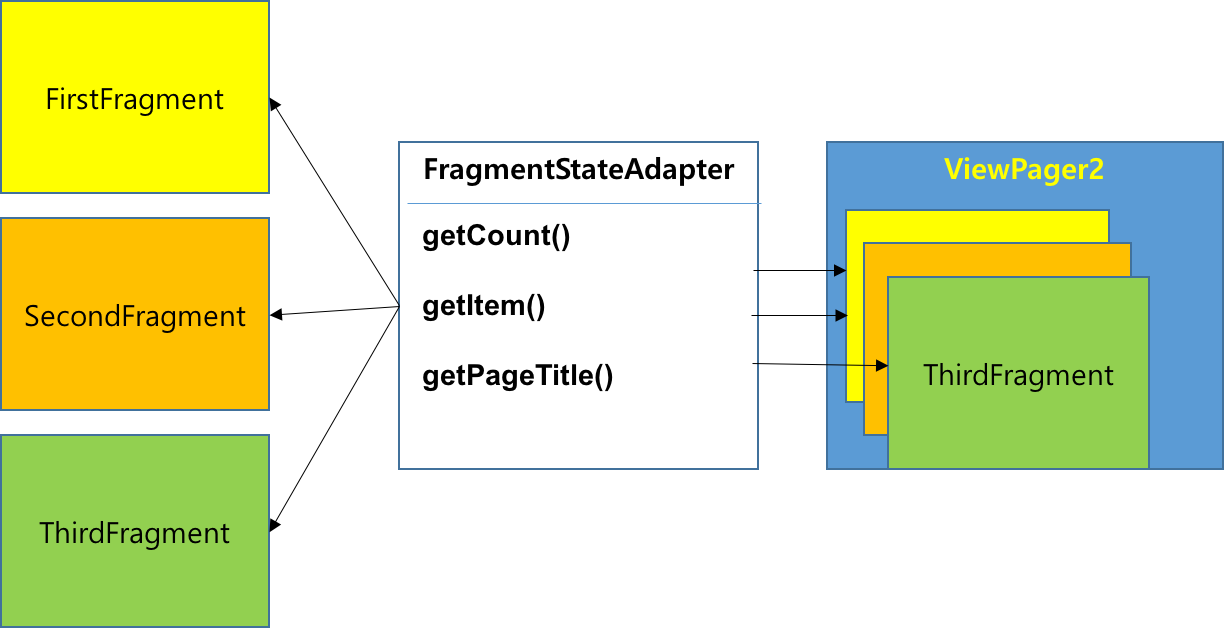
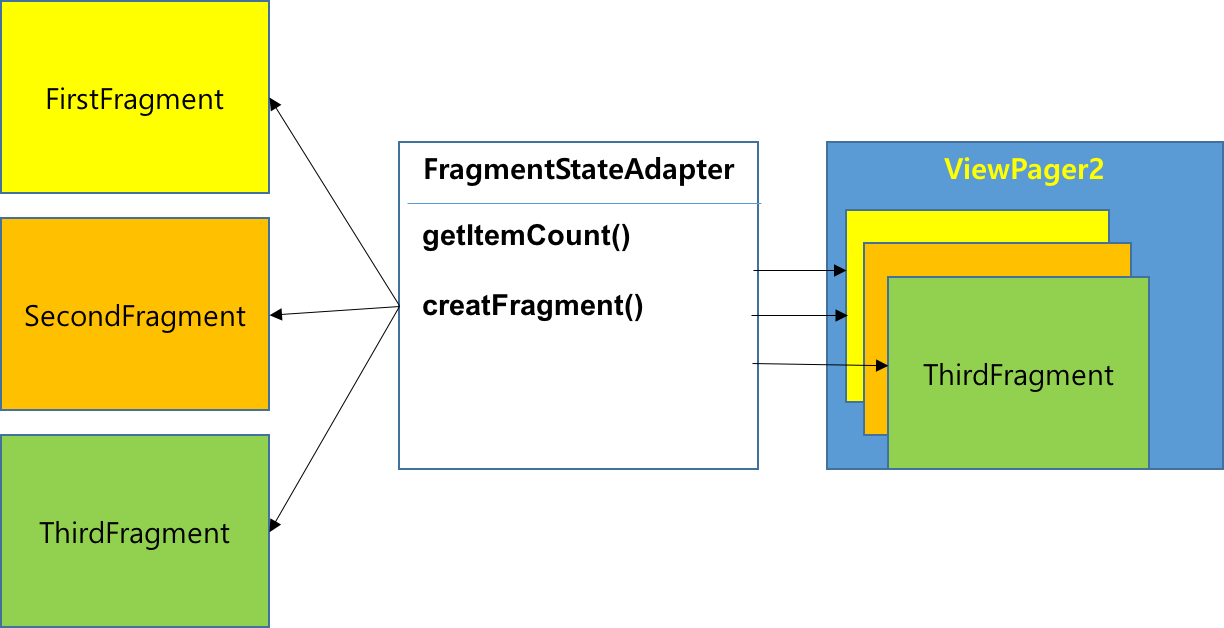
update

Changed region(s): [[0.3415, 0.4538, 0.5278, 0.5143], [0.3415, 0.5748, 0.4967, 0.6354], [0.3725, 0.3328, 0.5278, 0.3933]]

diff --git a/navigation/swiping-views.html b/navigation/swiping-views.html
@@ -325,8 +325,7 @@ div.polaroid {
     &lt;androidx.viewpager2.widget.ViewPager2
         android:id=&quot;@+id/vpPager&quot;
         android:layout_width=&quot;match_parent&quot;
-        android:layout_height=&quot;wrap_content&quot;&gt;
-    &lt;/androidx.viewpager.widget.ViewPager&gt;
+        android:layout_height=&quot;wrap_content&quot;/&gt;
 &lt;/LinearLayout&gt;</code></pre></div></li>
 </ul>
 
@@ -422,22 +421,22 @@ div.polaroid {
         setContentView(R.layout.activity_main);
 
         ViewPager2 vpPager = findViewById(R.id.vpPager);
-        FragmentStateAdapter adapterViewPager = new PagerAdapter(this);
-        vpPager.setAdapter(adapterViewPager);
+        FragmentStateAdapter adapter = new PagerAdapter(this);
+        vpPager.setAdapter(adapter);
     }
 }</code></pre></div></li>
 </ul>
 
-<h3 id="toc_8">2.5 기타 ViewPager 설정</h3>
+<h3 id="toc_8">2.5 기타 ViewPager2 설정</h3>
 
 <ul>
-<li><p><a href="https://developer.android.com/reference/androidx/viewpager/widget/ViewPager.html#getCurrentItem()">getCurrentItem()</a>: ViewPager 객체의 현재 페이지를 반환</p>
+<li><p><a href="https://developer.android.com/reference/androidx/viewpager/widget/ViewPager.html#getCurrentItem()">getCurrentItem()</a>: ViewPager2 객체의 현재 페이지를 반환</p>
 
 <div><pre><code class="language-java">vpPager.getCurrentItem(); // --&gt; 2</code></pre></div></li>
-<li><p><a href="https://developer.android.com/reference/androidx/viewpager/widget/ViewPager.html#setCurrentItem(int)">setCurrentItem(int item)</a>: ViewPager 객체의 현재 페이지를 설정</p>
+<li><p><a href="https://developer.android.com/reference/androidx/viewpager/widget/ViewPager.html#setCurrentItem(int)">setCurrentItem(int item)</a>: ViewPager2 객체의 현재 페이지를 설정</p>
 
 <div><pre><code class="language-java">vpPager.setCurrentItem(2)</code></pre></div></li>
-<li><p><a href="https://developer.android.com/reference/androidx/viewpager/widget/ViewPager.OnPageChangeListener.html">ViewPager.OnPageChangeListener</a>: ViewPager 객체의 페이지 변화가 일어날 때, 특정한 일을 처리해 주기 위해서 사용</p>
+<li><p><a href="https://developer.android.com/reference/androidx/viewpager2/widget/ViewPager2#registerOnPageChangeCallback(androidx.viewpager2.widget.ViewPager2.OnPageChangeCallback)">egisterOnPageChangeCallback(ViewPager2.OnPageChangeCallback callback)</a>: ViewPager2 객체의 페이지 변화가 일어날 때, 특정한 일을 처리해 주기 위해서 사용</p>
 
 <div><pre><code class="language-java">// Attach the page change listener inside the activity
 vpPager.registerOnPageChangeCallback(new ViewPager2.OnPageChangeCallback() {
@@ -461,11 +460,12 @@ vpPager.registerOnPageChangeCallback(new ViewPager2.OnPageChangeCallback() {
 
 <ul>
 <li> <a href="https://developer.android.com/reference/com/google/android/material/tabs/TabLayout.html"><strong>TabLayout</strong></a>은 Google Play Style의 슬라이딩 탭을 구현한 것으로, 디자인 지원 라이브러리에 포함되어 있습니다.</li>
-<li> 이를 이용하기 위해서는 3장까지 진행된 프로젝트에 다음 두 단계를 추가합니다. (PagerAdapter.getPageTitle(int) 메소드가 재정의 되어 있는 것을 가정)
+<li> 이를 이용하기 위해서는 2장까지 진행된 프로젝트에 다음 세 단계를 추가합니다.
 
 <ol>
 <li>디자인 지원 라이브러리 설정</li>
-<li> XML 레이아웃에 TabLayout 추가 </li>
+<li>XML 레이아웃에 TabLayout 추가 </li>
+<li>TabLayoutMediator를 통해 TabLayout과 ViewPager2를 연결</li>
 </ol></li>
 </ul>
 
@@ -555,15 +555,28 @@ vpPager.registerOnPageChangeCallback(new ViewPager2.OnPageChangeCallback() {
 </table>
 
 <ul>
+<li>예제 : <a href="https://github.com/kwanulee/AndroidProgramming/blob/master/examples/ViewPagerTest/app/src/main/res/layout/activity_main.xml#L8-L18">https://github.com/kwanulee/AndroidProgramming/blob/master/examples/ViewPagerTest/app/src/main/res/layout/activity_main.xml#L8-L18</a></li>
 <li><a href="https://developer.android.com/reference/com/google/android/material/tabs/TabLayout.html#lattrs">추가 속성 정보</a></li>
 </ul></li>
 </ul>
 
-<h3 id="toc_13">3.3 TabLayoutMediator</h3>
+<h3 id="toc_13">3.3 TabLayoutMediator를 통해 TabLayout과 ViewPager2를 연결</h3>
 
 <ul>
-<li><a href="https://developer.android.com/reference/com/google/android/material/tabs/TabLayoutMediator">TabLayoutMediator</a>는 TabLayout을 ViewPager2로 연결시켜 주는 역할을 함</li>
-<li><p>탭의 스타일 및 텍스트를 설정하기 위해서는 <a href="https://developer.android.com/reference/com/google/android/material/tabs/TabLayoutMediator.TabConfigurationStrategy?hl=ko">TabLayoutMediator.TabConfigurationStrategy</a> 인터페이스를 구현하여, TabLayoutMediator 생성자 파라미터로 설정해 주어야 함.</p>
+<li><p>사전 준비</p>
+
+<ul>
+<li> 앞에서 정의한 PagerAdapter 클래스에 탭에 표시될 제목을 반환하는 getPageTitle(int) 메소드를 정의<br>
+
+<ul>
+<li> <a href="https://github.com/kwanulee/AndroidProgramming/blob/master/examples/ViewPagerTest/app/src/main/java/com/example/viewpagertest/PagerAdapter.java#L42-L44">https://github.com/kwanulee/AndroidProgramming/blob/master/examples/ViewPagerTest/app/src/main/java/com/example/viewpagertest/PagerAdapter.java#L42-L44</a>)</li>
+</ul></li>
+</ul></li>
+<li><p><a href="https://developer.android.com/reference/com/google/android/material/tabs/TabLayoutMediator">TabLayoutMediator</a>는 TabLayout을 ViewPager2로 연결시켜 주는 역할을 함</p>
+
+<ul>
+<li> 탭에 제목를 표시하기 위해서 <a href="https://developer.android.com/reference/com/google/android/material/tabs/TabLayoutMediator.TabConfigurationStrategy?hl=ko">TabLayoutMediator.TabConfigurationStrategy</a> 인터페이스를  아래와 같이 구현하여, TabLayoutMediator의 세번째 생성자 파라미터로 설정해 주어야 함.</li>
+</ul>
 
 <div><pre><code class="language-java">    protected void onCreate(Bundle savedInstanceState) {
         //...   
@@ -572,7 +585,8 @@ vpPager.registerOnPageChangeCallback(new ViewPager2.OnPageChangeCallback() {
                 new TabLayoutMediator.TabConfigurationStrategy() {
                     @Override
                     public void onConfigureTab(@NonNull TabLayout.Tab tab, int position) {
-                        tab.setText(((PagerAdapter)adapterViewPager).getPageTitle(position));
+                        // 탭에 표시될 제목을 PagerAdapter 클래스의 getPageTitle(int) 메소드로부터 공급 받아 설정
+                        tab.setText(((PagerAdapter)adapter).getPageTitle(position));
                     }
                 }
         ).attach();

diff --git a/navigation/swiping-views.md b/navigation/swiping-views.md
@@ -60,8 +60,7 @@ div.polaroid {
 	    <androidx.viewpager2.widget.ViewPager2
 	        android:id="@+id/vpPager"
 	        android:layout_width="match_parent"
-	        android:layout_height="wrap_content">
-	    </androidx.viewpager.widget.ViewPager>
+	        android:layout_height="wrap_content"/>
 	</LinearLayout>
 	```
 
@@ -153,28 +152,28 @@ div.polaroid {
 	        setContentView(R.layout.activity_main);
 	
 	        ViewPager2 vpPager = findViewById(R.id.vpPager);
-	        FragmentStateAdapter adapterViewPager = new PagerAdapter(this);
-	        vpPager.setAdapter(adapterViewPager);
+	        FragmentStateAdapter adapter = new PagerAdapter(this);
+	        vpPager.setAdapter(adapter);
 	    }
 	}
 	```
 	
 
 	
-### 2.5 기타 ViewPager 설정
+### 2.5 기타 ViewPager2 설정
 
-- [getCurrentItem()](https://developer.android.com/reference/androidx/viewpager/widget/ViewPager.html#getCurrentItem()): ViewPager 객체의 현재 페이지를 반환
+- [getCurrentItem()](https://developer.android.com/reference/androidx/viewpager/widget/ViewPager.html#getCurrentItem()): ViewPager2 객체의 현재 페이지를 반환
 
 	```java
 	vpPager.getCurrentItem(); // --> 2
 	```
 
-- [setCurrentItem(int item)](https://developer.android.com/reference/androidx/viewpager/widget/ViewPager.html#setCurrentItem(int)): ViewPager 객체의 현재 페이지를 설정
+- [setCurrentItem(int item)](https://developer.android.com/reference/androidx/viewpager/widget/ViewPager.html#setCurrentItem(int)): ViewPager2 객체의 현재 페이지를 설정
 
 	```java
 	vpPager.setCurrentItem(2)
 	```
-- [ViewPager.OnPageChangeListener](https://developer.android.com/reference/androidx/viewpager/widget/ViewPager.OnPageChangeListener.html): ViewPager 객체의 페이지 변화가 일어날 때, 특정한 일을 처리해 주기 위해서 사용
+- [egisterOnPageChangeCallback(ViewPager2.OnPageChangeCallback callback)](https://developer.android.com/reference/androidx/viewpager2/widget/ViewPager2#registerOnPageChangeCallback(androidx.viewpager2.widget.ViewPager2.OnPageChangeCallback)): ViewPager2 객체의 페이지 변화가 일어날 때, 특정한 일을 처리해 주기 위해서 사용
 
 
 	```java
@@ -195,9 +194,10 @@ div.polaroid {
 
 ## 3. Google Play Style 탭 표시하기
 -  [**TabLayout**](https://developer.android.com/reference/com/google/android/material/tabs/TabLayout.html)은 Google Play Style의 슬라이딩 탭을 구현한 것으로, 디자인 지원 라이브러리에 포함되어 있습니다.
--  이를 이용하기 위해서는 3장까지 진행된 프로젝트에 다음 두 단계를 추가합니다. (PagerAdapter.getPageTitle(int) 메소드가 재정의 되어 있는 것을 가정)
+-  이를 이용하기 위해서는 2장까지 진행된 프로젝트에 다음 세 단계를 추가합니다.
 	1. 디자인 지원 라이브러리 설정
-	2.  XML 레이아웃에 TabLayout 추가 
+	2. XML 레이아웃에 TabLayout 추가 
+	3. TabLayoutMediator를 통해 TabLayout과 ViewPager2를 연결
 	
 ### 3.1  디자인 지원 라이브러리 설정
 - app/build.gradle 파일에 다음 의존성을 추가
@@ -246,12 +246,16 @@ div.polaroid {
 	|tabMode|	fixed, scrollable|	Small number of fixed tabs or scrolling list
 	|tabTextColor	|@color/blue	|Color of the text on the tab
 	
+	- 예제 : https://github.com/kwanulee/AndroidProgramming/blob/master/examples/ViewPagerTest/app/src/main/res/layout/activity_main.xml#L8-L18
 	- [추가 속성 정보](https://developer.android.com/reference/com/google/android/material/tabs/TabLayout.html#lattrs)
 
-### 3.3 TabLayoutMediator
+### 3.3 TabLayoutMediator를 통해 TabLayout과 ViewPager2를 연결
+- 사전 준비
+	-  앞에서 정의한 PagerAdapter 클래스에 탭에 표시될 제목을 반환하는 getPageTitle(int) 메소드를 정의  
+		-  https://github.com/kwanulee/AndroidProgramming/blob/master/examples/ViewPagerTest/app/src/main/java/com/example/viewpagertest/PagerAdapter.java#L42-L44)
 
 - [TabLayoutMediator](https://developer.android.com/reference/com/google/android/material/tabs/TabLayoutMediator)는 TabLayout을 ViewPager2로 연결시켜 주는 역할을 함
--  탭의 스타일 및 텍스트를 설정하기 위해서는 [TabLayoutMediator.TabConfigurationStrategy](https://developer.android.com/reference/com/google/android/material/tabs/TabLayoutMediator.TabConfigurationStrategy?hl=ko) 인터페이스를 구현하여, TabLayoutMediator 생성자 파라미터로 설정해 주어야 함.
+	-  탭에 제목를 표시하기 위해서 [TabLayoutMediator.TabConfigurationStrategy](https://developer.android.com/reference/com/google/android/material/tabs/TabLayoutMediator.TabConfigurationStrategy?hl=ko) 인터페이스를  아래와 같이 구현하여, TabLayoutMediator의 세번째 생성자 파라미터로 설정해 주어야 함.
 
 	```java
 	    protected void onCreate(Bundle savedInstanceState) {
@@ -261,7 +265,8 @@ div.polaroid {
 	                new TabLayoutMediator.TabConfigurationStrategy() {
 	                    @Override
 	                    public void onConfigureTab(@NonNull TabLayout.Tab tab, int position) {
-	                        tab.setText(((PagerAdapter)adapterViewPager).getPageTitle(position));
+	                        // 탭에 표시될 제목을 PagerAdapter 클래스의 getPageTitle(int) 메소드로부터 공급 받아 설정
+	                        tab.setText(((PagerAdapter)adapter).getPageTitle(position));
 	                    }
 	                }
 	        ).attach();
